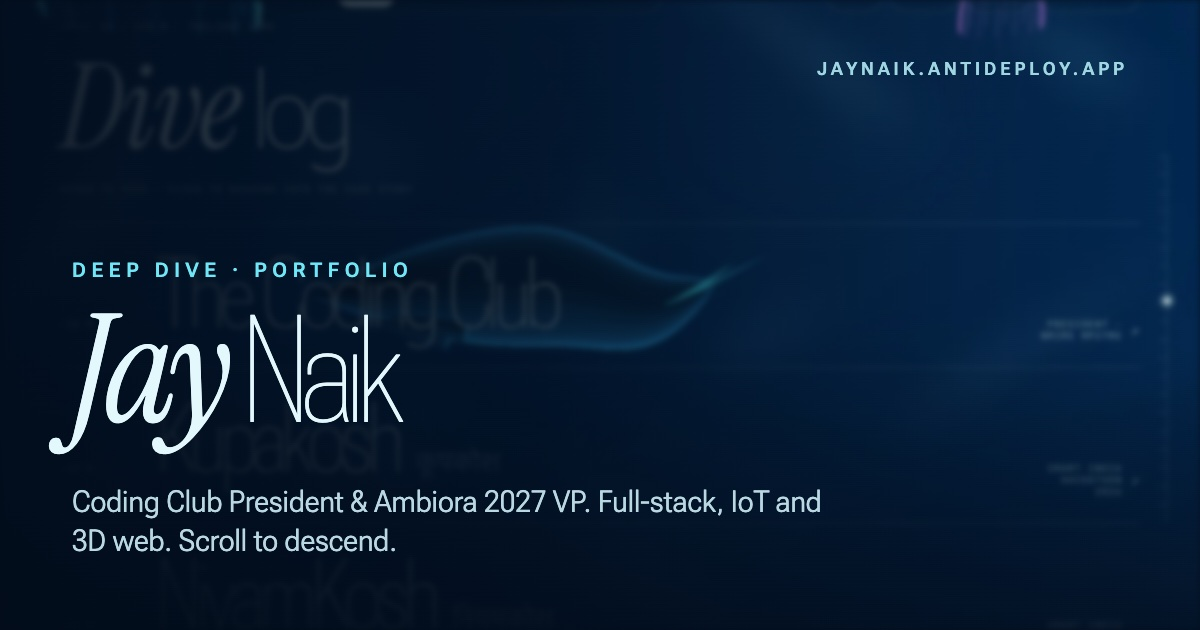
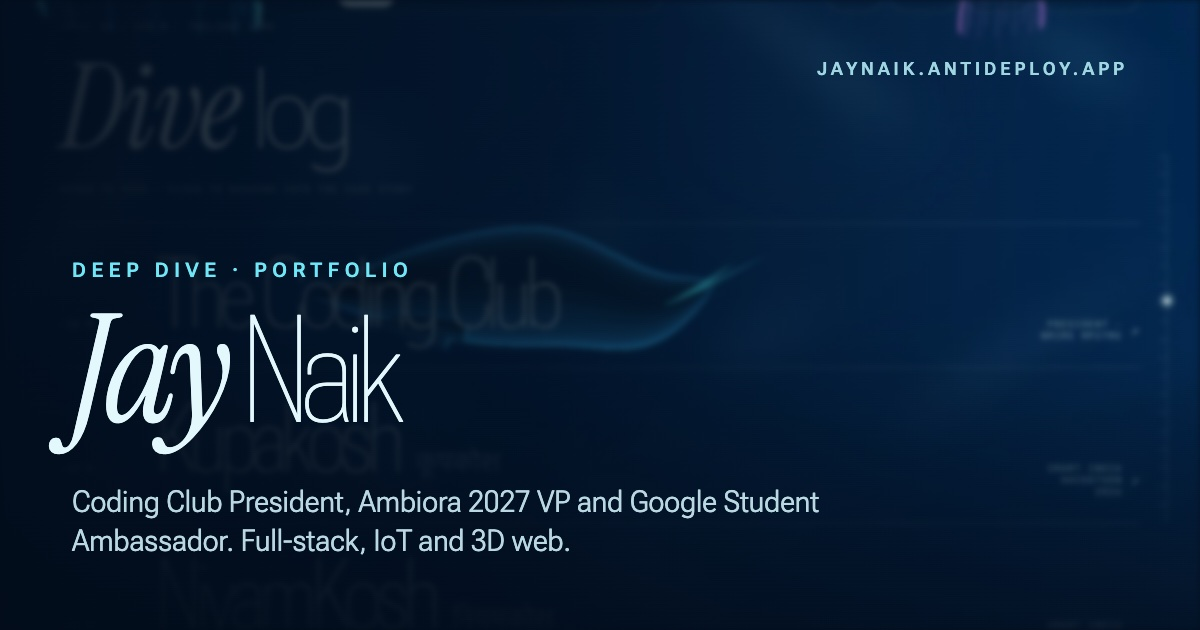
Mention the Google Student Ambassador role in the hero, About, diver bio, page description, share image, marquee and README

Changed region(s): [[0.2775, 0.754, 0.7092, 0.8143], [0.0617, 0.8444, 0.4933, 0.8746]]

diff --git a/src/diver/corpus.ts b/src/diver/corpus.ts
@@ -63,7 +63,7 @@ export function buildCorpus(): Passage[] {
   })
 
   out.push(
-    { id: 'me:about', label: 'About me', text: 'I’m Jay Naik, a B.Tech CSE student (2024–2028, CGPA 8.5) at NMIMS MPSTME Shirpur, from Navsari, Gujarat. I’m the President of the Coding Club and the Vice President of Ambiora 2027, the NMIMS inter-campus techfest, and I was the Web Dev Lead at GDG on Campus. I build full-stack web, IoT and 3D web.', keys: 'who about me jay naik introduce yourself education college university student cgpa location navsari' },
+    { id: 'me:about', label: 'About me', text: 'I’m Jay Naik, a B.Tech CSE student (2024–2028, CGPA 8.5) at NMIMS MPSTME Shirpur, from Navsari, Gujarat. I’m the President of the Coding Club, the Vice President of Ambiora 2027, the NMIMS inter-campus techfest, and a Google Student Ambassador on this campus (since May 2026, with a monthly session on new Gemini features), and I was the Web Dev Lead at GDG on Campus. I build full-stack web, IoT and 3D web.', keys: 'who about me jay naik introduce yourself education college university student cgpa location navsari' },
     { id: 'me:contact', label: 'Contact', text: `You can email me at ${profile.email}, find me on LinkedIn and GitHub, or open my résumé from the contact section.`, keys: 'contact email reach hire message linkedin github resume cv' },
     { id: 'me:availability', label: 'Availability', text: 'I’m open to internships, part-time work and freelance projects.', keys: 'available availability hire internship freelance part-time job opportunity open to work' },
   )

diff --git a/index.html b/index.html
@@ -4,12 +4,12 @@
     <meta charset="UTF-8" />
     <meta name="viewport" content="width=device-width, initial-scale=1, viewport-fit=cover" />
     <meta name="theme-color" content="#bfe9ec" />
-    <meta name="description" content="Jay Naik — Coding Club President, Ambiora 2027 Vice President, full-stack developer, IoT and 3D web. A portfolio you dive into." />
+    <meta name="description" content="Jay Naik — Coding Club President, Ambiora 2027 Vice President, Google Student Ambassador, full-stack developer, IoT and 3D web. A portfolio you dive into." />
     <link rel="canonical" href="https://jaynaik.antideploy.app/" />
     <meta property="og:type" content="website" />
     <meta property="og:site_name" content="Jay Naik" />
     <meta property="og:title" content="Jay Naik: Deep Dive" />
-    <meta property="og:description" content="A portfolio you descend instead of scroll. Coding Club President and Ambiora 2027 Vice President. Full-stack, IoT and 3D web." />
+    <meta property="og:description" content="A portfolio you descend instead of scroll. Coding Club President, Ambiora 2027 Vice President and Google Student Ambassador. Full-stack, IoT and 3D web." />
     <meta property="og:url" content="https://jaynaik.antideploy.app/" />
     <meta property="og:image" content="https://jaynaik.antideploy.app/og.jpg" />
     <meta property="og:image:width" content="1200" />

diff --git a/src/components/About.tsx b/src/components/About.tsx
@@ -33,7 +33,7 @@ export function About({ onOpen }: { onOpen: (id: string) => void }) {
 
       <div className="about-grid">
         <motion.p className="lede" variants={rise} initial="hidden" whileInView="show" viewport={{ once: true, margin: '-12%' }} transition={{ duration: 1, ease: [0.22, 1, 0.36, 1] }}>
-          I'm the <em>President of the Coding Club</em> at NMIMS Shirpur and the <em>Vice President of Ambiora 2027</em>, our inter-campus techfest. Before that I led web at <em>GDG on Campus</em>, where I ran a team of ten. I ship real products for real students, and I wire ESP32s to the internet when software gets too comfortable.
+          I'm the <em>President of the Coding Club</em> at NMIMS Shirpur, <em>Vice President of Ambiora 2027</em>, our inter-campus techfest, and a <em>Google Student Ambassador</em> running a monthly session on new Gemini features. Before that I led web at <em>GDG on Campus</em>, where I ran a team of ten. I ship real products for real students, and I wire ESP32s to the internet when software gets too comfortable.
         </motion.p>
 
         <div className="numbers">

diff --git a/src/components/Hero.tsx b/src/components/Hero.tsx
@@ -43,7 +43,7 @@ export function Hero({ go }: { go: boolean }) {
             </span>
           </div>
           <p>
-            President of the Coding Club and Vice President of Ambiora 2027 at NMIMS Shirpur, previously Web Dev Lead at GDG on Campus. I build <em>things that actually ship</em>: web, IoT, and 3D you can touch.
+            President of the Coding Club, Vice President of Ambiora 2027 and Google Student Ambassador at NMIMS Shirpur, previously Web Dev Lead at GDG on Campus. I build <em>things that actually ship</em>: web, IoT, and 3D you can touch.
           </p>
           <div className="cta">
             <button className="btn primary" data-cursor="Dive" onClick={() => goTo('#dives')}>

diff --git a/src/components/Contact.tsx b/src/components/Contact.tsx
@@ -28,7 +28,7 @@ export function Contact({ copy }: { copy: () => void }) {
 
       <p className="mono open-line"><i /> Open to internships · part-time · freelance</p>
 
-      <Marquee reverse words={['Coding Club President', 'Ambiora 2027 VP', 'Full-stack', 'IoT', '3D web', 'Hackathon lead', 'Ships real things']} />
+      <Marquee reverse words={['Coding Club President', 'Ambiora 2027 VP', 'Google Student Ambassador', 'Full-stack', 'IoT', '3D web', 'Hackathon lead', 'Ships real things']} />
       <div className="foot mono"><span>© 2026 {profile.name}</span><span>React · TypeScript · Three.js · Motion · built on a spring, not a timeline</span></div>
     </section>
   )

diff --git a/README.md b/README.md
@@ -152,7 +152,7 @@ To add a project: edit `src/data.ts` (including its writeup) and drop a screensh
 
 <div align="center">
 
-Built by **[Jay Naik](https://github.com/Jay-Naik2526)**. President of the Coding Club and Vice President of Ambiora 2027 at NMIMS Shirpur, previously Web Dev Lead at GDG on Campus.<br>
+Built by **[Jay Naik](https://github.com/Jay-Naik2526)**. President of the Coding Club, Vice President of Ambiora 2027 and Google Student Ambassador at NMIMS Shirpur, previously Web Dev Lead at GDG on Campus.<br>
 Open to internships, part-time work and freelance.
 
 </div>
